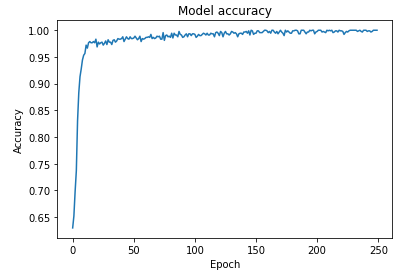
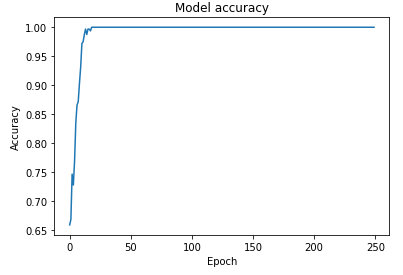
Ajuste/Divisão da database em 3

Changed region(s): [[0.0298, 0.0, 0.9826, 0.9412], [0.5062, 0.9412, 0.5955, 1.0]]

diff --git a/copy_03tictac.py b/copy_03tictac.py
@@ -39,21 +39,27 @@ def plotarResultados(resultado, titulo, ylabel, xlabel):
 
 numpydados = loadtxt('tic-tac-toe.csv', delimiter=",")
 
-Xtotal = numpydados[:,0:9] #Valores de entrada
-Ytotal = numpydados[:,9] #Valores de saida
+Xtotal = numpydados[:,0:9] 
+Ytotal = numpydados[:,9] 
 
-X = numpydados[0:897, :9] #Valores de entrada
-Y = numpydados[0:897, 9] #Valores de saida
+Xfit = np.concatenate((numpydados[0:208, :9], numpydados[626:737, :9]), axis=0) 
+Yfit = np.concatenate((numpydados[0:208, 9], numpydados[626:737, 9]), axis=0) 
 
-Z = numpydados[898: , :9] #Valores de entrada
-W = numpydados[898: , 9] #Valores de saida
+Xeva = np.concatenate((numpydados[208:417, :9], numpydados[737:847, :9]), axis=0)  
+Yeva = np.concatenate((numpydados[208:417, 9], numpydados[737:847, 9]), axis=0) 
+
+Xbase = np.concatenate((numpydados[417:626, :9], numpydados[847:958, :9]), axis=0)   
+Ybase = np.concatenate((numpydados[417:626, 9], numpydados[847:958, 9]), axis=0)  
+
+print (len(Xbase))
+print (len(Xeva))
+print (len(Xfit))
 
 
-# 1  -> 897 - Treinamento
-# 898-> EOF - Teste
 
-print (X)
-print (Y)
+# 1~208 + 627 ~ 737 -> Fit
+# 209~417 + 737 ~ 847 -> Eva
+# 418~626 + 848 ~ 958 -> basefit
 
 model = tf.keras.Sequential([
     tf.keras.layers.Dense(12, input_dim=9, activation=tf.nn.sigmoid),
@@ -67,7 +73,7 @@ model.compile(optimizer=tf.keras.optimizers.RMSprop(lr=0.12),
               loss='binary_crossentropy',
               metrics=['accuracy'])
 
-seqModel = model.fit(X, Y, epochs=250) #Treinamento
+seqModel = model.fit(Xfit, Yfit, epochs=250) #Treinamento
 
 listAcc = list(seqModel.history['accuracy'])
 avgAcc = np.average(listAcc)
@@ -80,25 +86,19 @@ print('Erro médio: %.2f ' % (avgLoss))
 
 
 print('\n\nCom base de treinamento:')
-loss, accuracy = model.evaluate(X, Y)
+loss, accuracy = model.evaluate(Xeva, Yeva)
 print('Acerto: %.2f' % (accuracy*100))
 print('Erro: %.2f' % (loss))
-
-print('\n\nCom base de predição:')
-loss, accuracy = model.evaluate(Z, W)
-print('Acerto: %.2f' % (accuracy*100))
-print('Erro: %.2f' % (loss))
-predictions = model.predict_classes(Z)
 
 plotarResultados(listAcc,'Model accuracy', 'Accuracy', 'Epoch')
 plotarResultados(listLoss,'Model loss', 'Loss', 'Epoch')
 
 """PREDIÇÕES"""
 
-predictions = model.predict_classes(X)
+predictions = model.predict_classes(Xbase)
 # summarize the first 5 cases
-for i in range(len(Y)):
-	print('%s => %d (expected %d)' % (X[i].tolist(), predictions[i], Y[i]))
+for i in range(len(Xbase)):
+	print('%s => %d (expected %d)' % (Xbase[i].tolist(), predictions[i], Ybase[i]))
 
 """ANALISE"""
 
